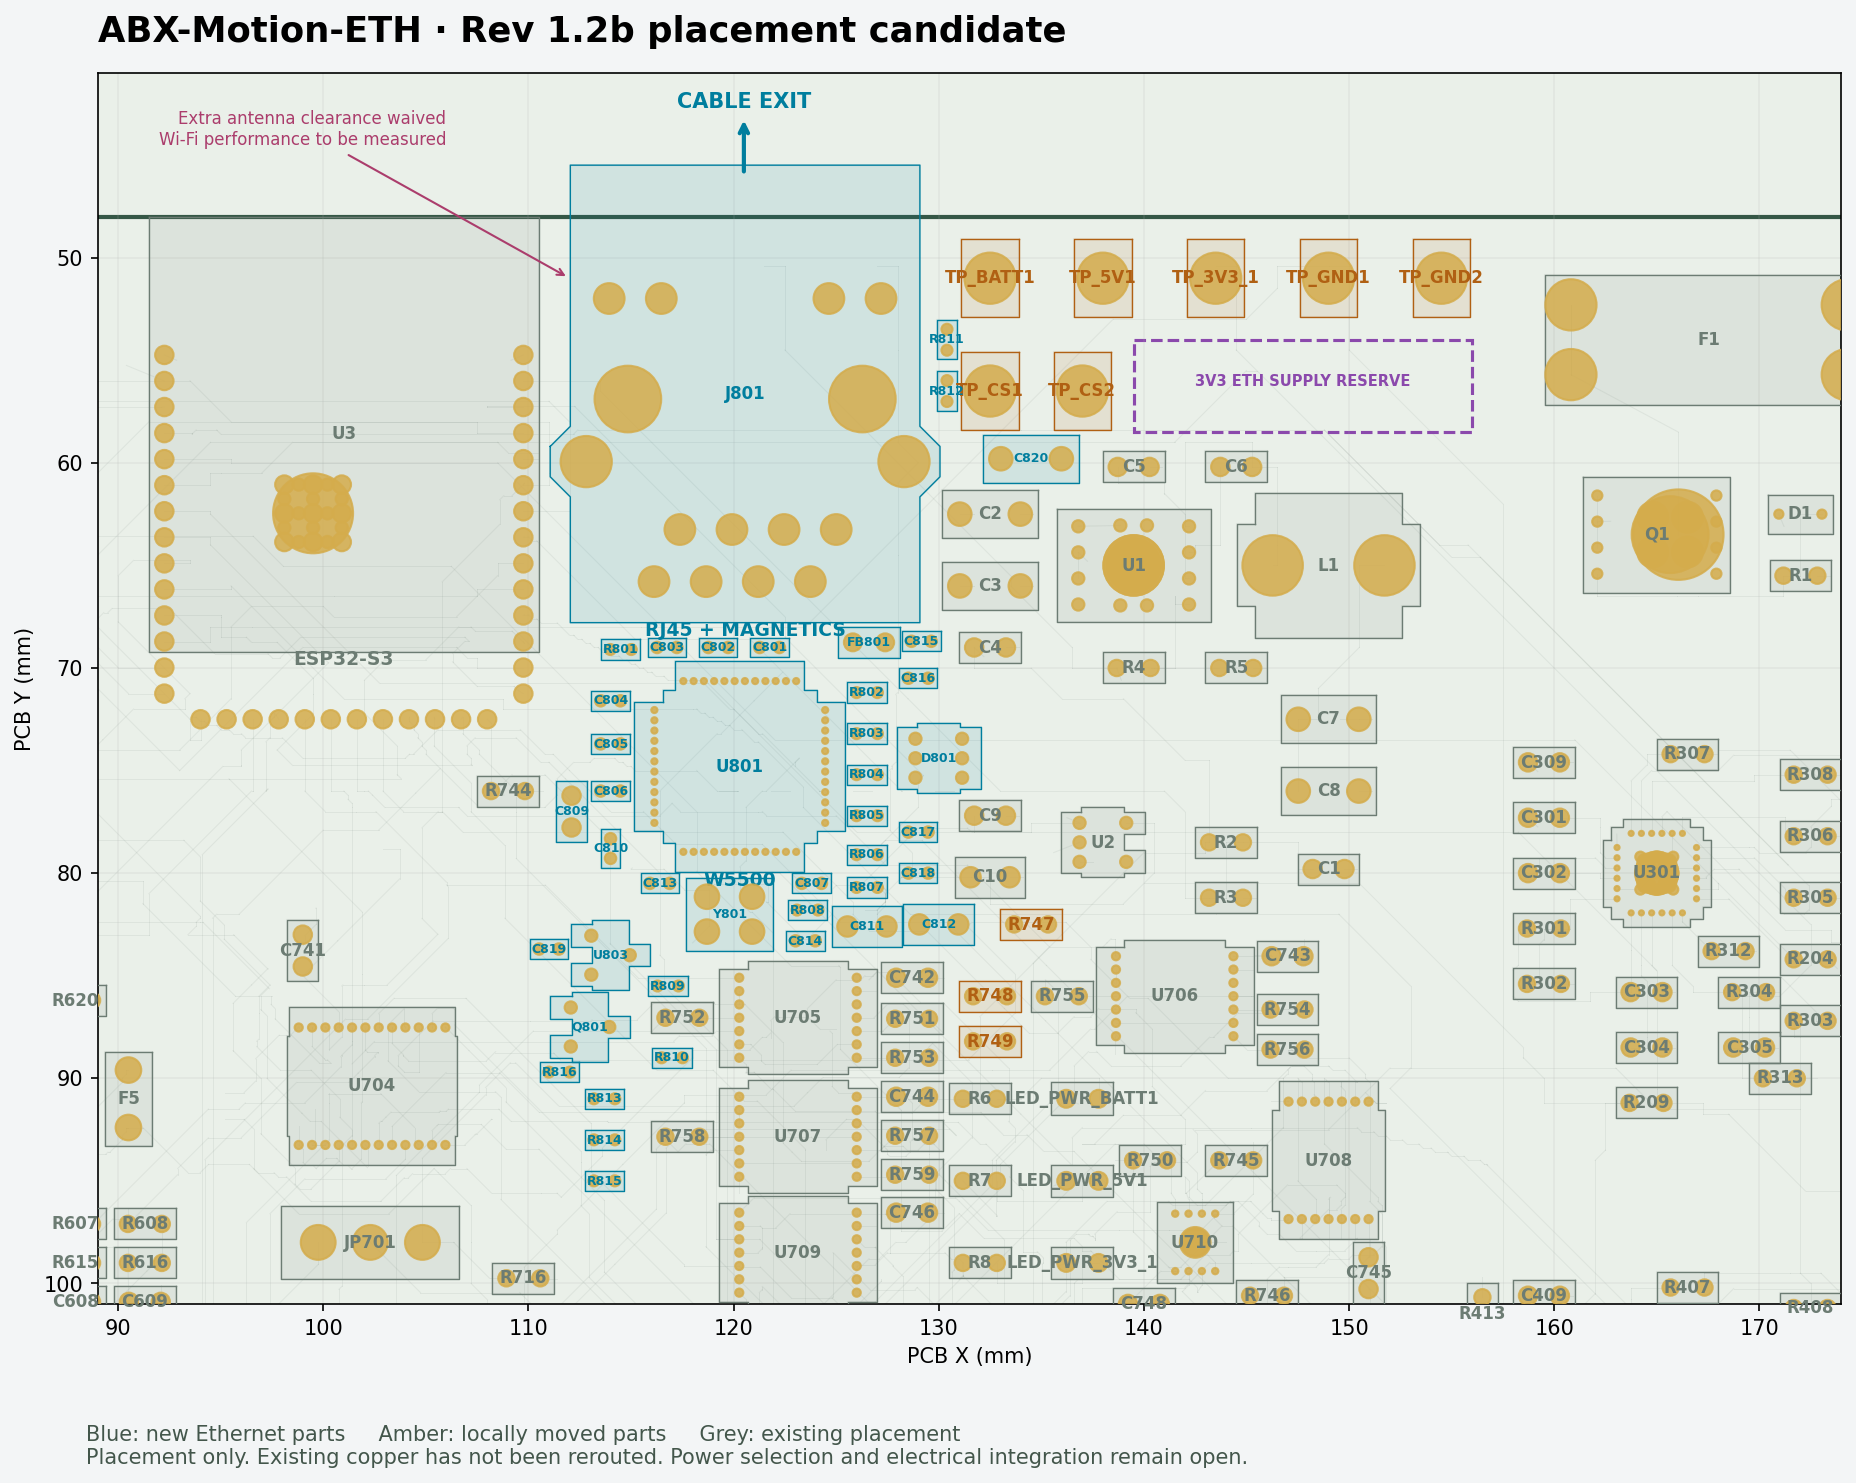
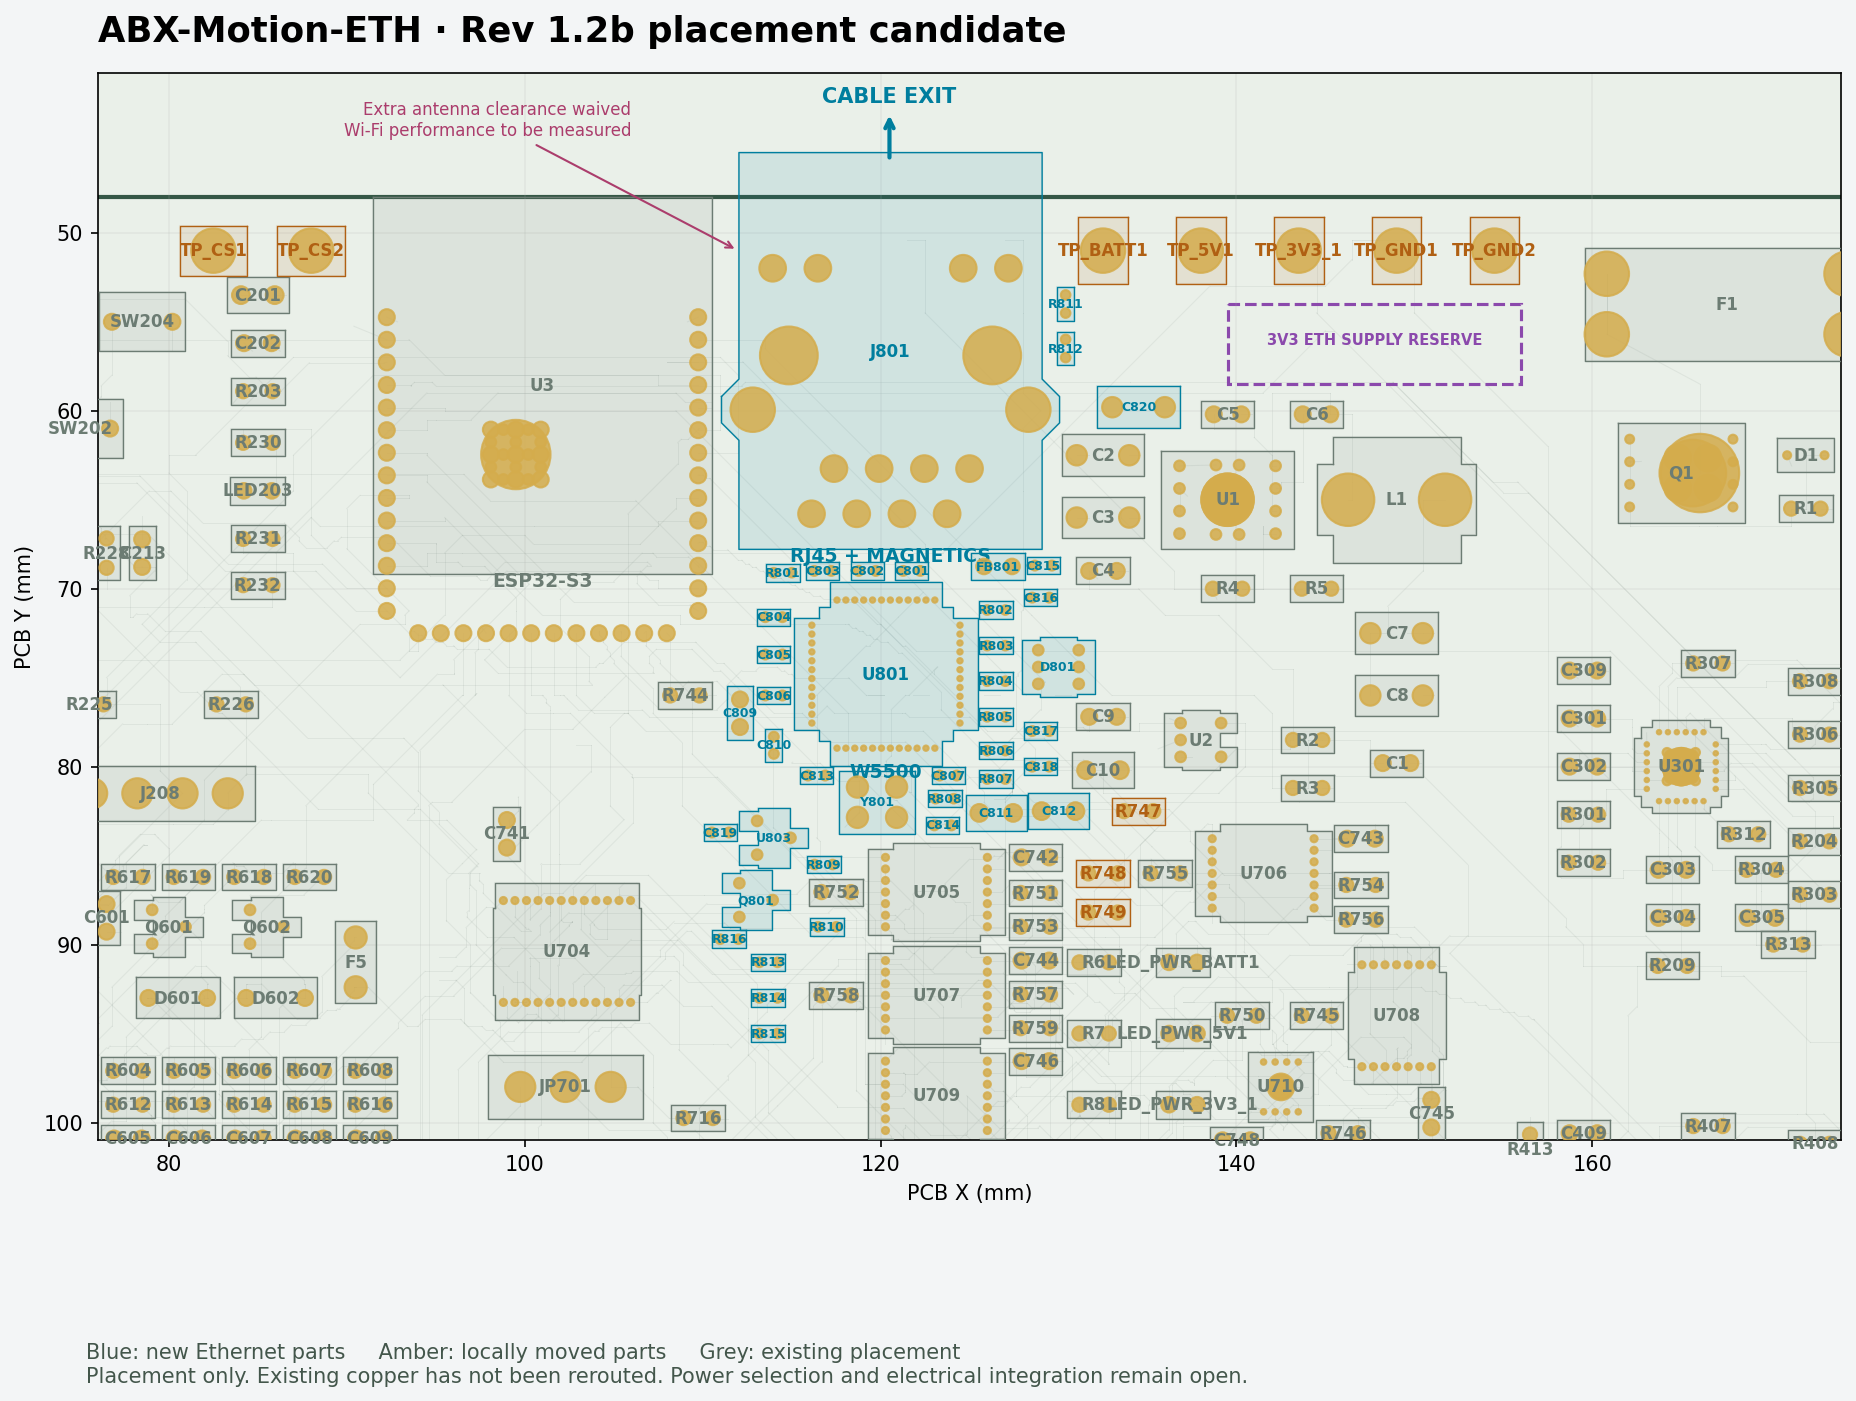
Move Ethernet draft CS test pads to left of ESP32

diff --git a/work/ethernet-rev1.2b-20261023/placement.py b/work/ethernet-rev1.2b-20261023/placement.py
@@ -17,11 +17,11 @@ mm=lambda x,y:pcbnew.VECTOR2I(round(x*1e6),round(y*1e6))
 # Restricted local placement changes. Copper is retained verbatim in the review
 # board so a placement experiment cannot erase necessary original connections.
 moves={
- # Move the seven top probe pads into two accessible rows to the right of RJ45.
+ # Five rail/ground pads right of RJ45; CS1/CS2 left of ESP32.
  'TP_BATT1':(132.5,51,0), 'TP_5V1':(138,51,0),
  'TP_3V3_1':(143.5,51,0), 'TP_GND1':(149,51,0),
- 'TP_GND2':(154.5,51,0), 'TP_CS1':(132.5,56.5,0),
- 'TP_CS2':(137,56.5,0),
+ 'TP_GND2':(154.5,51,0), 'TP_CS1':(82.5,51,90),
+ 'TP_CS2':(88,51,90),
  # Frees the original small logic pull-up row beneath the new PHY.
  'R747':(134.5,82.5,0), 'R748':(132.5,86,0), 'R749':(132.5,88.2,0),
 }

diff --git a/work/ethernet-rev1.2b-20261023/review.py b/work/ethernet-rev1.2b-20261023/review.py
@@ -80,5 +80,5 @@ def plot(name,xlim,ylim,large=False):
  ax.set_title('ABX-Motion-ETH · Rev 1.2b placement candidate',loc='left',fontsize=17,weight='bold',pad=15)
  fig.text(.12,.025,'Blue: new Ethernet parts     Amber: locally moved parts     Grey: existing placement\nPlacement only. Existing copper has not been rerouted. Power selection and electrical integration remain open.',fontsize=10,color='#43564b')
  fig.savefig(O/'layout-review'/name,dpi=150,bbox_inches='tight');plt.close(fig)
-plot('placement-detail.png',(89,174),(41,101),True)
+plot('placement-detail.png',(76,174),(41,101),True)
 plot('placement-overview.png',(42,205),(40,156))
